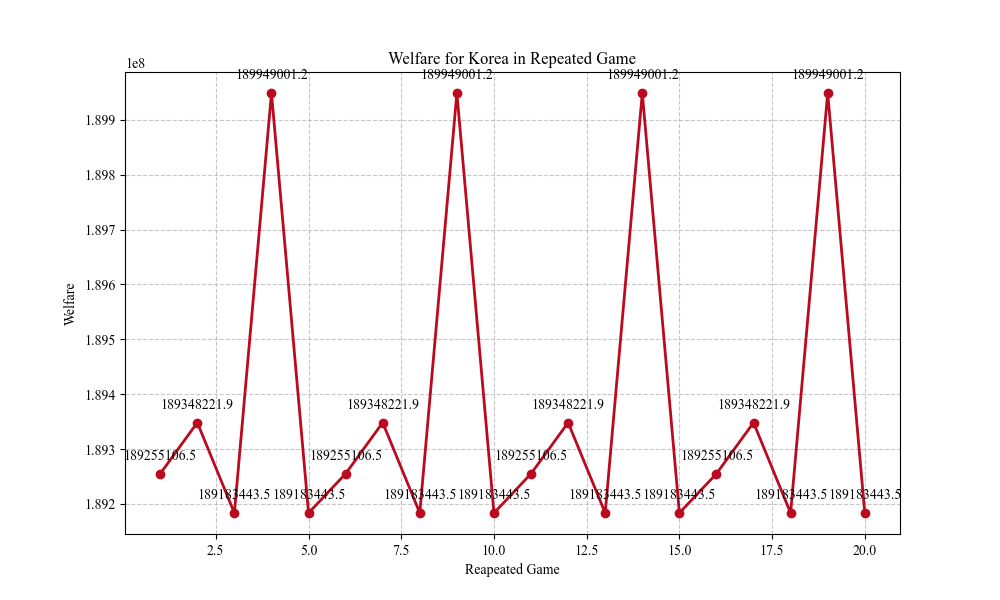
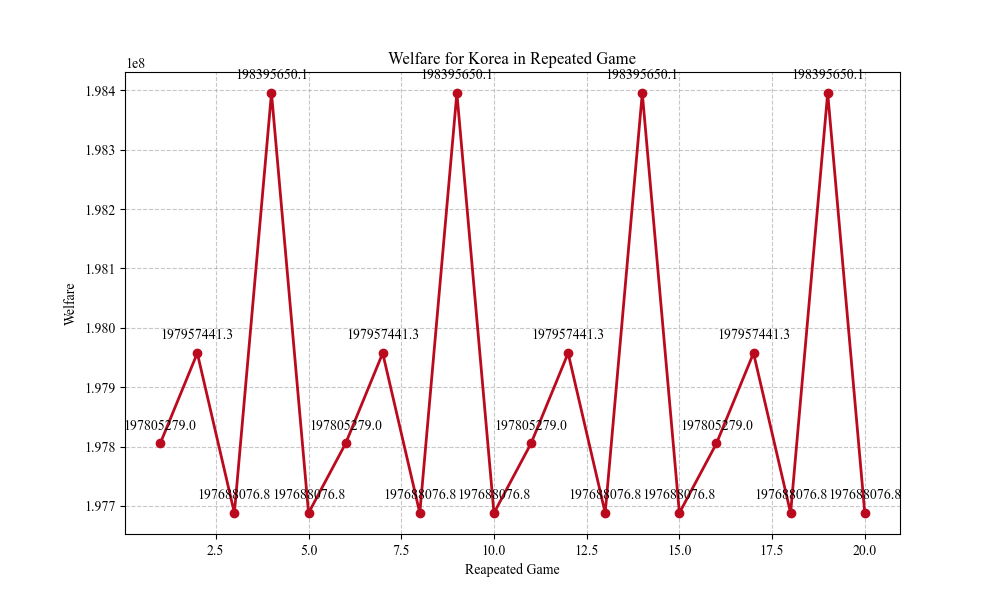
p_is typo corrected

diff --git a/welfare/welfare change effect.py b/welfare/welfare change effect.py
@@ -16,6 +16,11 @@ from scipy.optimize import minimize
 import pandas as pd
 import welfare
 import matplotlib.pyplot as plt
+from matplotlib import rcParams
+
+# Times New Roman 폰트를 사용하도록 설정
+rcParams['font.family'] = 'serif'
+rcParams['font.serif'] = ['Times New Roman'] + rcParams['font.serif']
 
 var.fill_gamma()
 var.fill_pi()
@@ -54,6 +59,7 @@ def gov_obj(tau_js, j):
         total += var.pol_econ[j][s] * calc_welfare(j, s)
     #print("total: ")
     #print(total)
+
     return -total  # We minimize, so we return the negative
 
 # Constraint 1 for country j and industry s
@@ -166,14 +172,18 @@ def constraints(tau_js, j):
 
 
 # Function to generate tariff matrix
-def generate_tariff_matrix():
+def generate_tariff_matrix(cname):
     # Create an array of tariffs (excluding the home country)
     # Tariffs for each industry (rows) and country (columns, excluding the home country)
     tariff_values = np.random.rand(var.num_industries, var.num_countries - 1) * 0.5 + 1.0
+    # tariff_values = var.tau[cname]
     return tariff_values
 
 def flatten(matrix):
     return [item for sublist in matrix for item in sublist]
+# def flatten(matrix):
+#     # Flatten the matrix and filter out non-numerical values
+#     return [item for sublist in matrix for item in sublist if isinstance(item, (int, float))]
 
 def flatten_dict(dict_matrix):
     """
@@ -186,7 +196,7 @@ def flatten_dict(dict_matrix):
     return flat_list
 
 # Generate an array of 5 tariff matrices
-tariff_matrices = [generate_tariff_matrix() for _ in range(5)]   
+tariff_matrices = [generate_tariff_matrix(name) for k, name in enumerate(var.countries)]   
 flat_matrices = [flatten(tariff_matrices[i]) for i in range(5)]
 
 def cal_x_j(country):
@@ -257,6 +267,7 @@ def welfare_change(T, X, delta_p, p, pi, t, delta_pi, delta_T):
 # Initialize a dictionary to store tariff values for each iteration
 tariff_history = {i: {j: {industry: [] for industry in var.industries} for j in var.countries if j != i} for i in var.countries}
 welfare_history = {i: {j: {industry: [] for industry in var.industries} for j in var.countries if j != i} for i in var.countries}
+
 # Ensure the directory exists
 output_dir = "nash_img"
 os.makedirs(output_dir, exist_ok=True)
@@ -281,31 +292,27 @@ def calculate_optimum_tariffs(exporter_name):
 
     # 각 국가에 대해 고유의 관세율 매트릭스를 사용하도록 수정
     optimal_taus = {j: {industry: 0 for industry in var.industries} for j in var.countries if j != exporter_name}
-    gov_obj_values = {j: {industry: 0 for industry in var.industries} for j in var.countries if j != exporter_name} # To store gov_obj values for each importer
+    gov_obj_values = {j: {industry: 0 for industry in var.industries} for j in var.countries if j != exporter_name} 
     
-    # exporter_name에 대한 인덱스를 가져옵니다.
-    exporter_idx = var.countries.index(exporter_name)
+    #exporter_idx = var.countries.index(exporter_name)
     idx = 0
     for j, importer in enumerate(var.countries):
         if importer == exporter_name:
             continue
         # flat_matrix는 실제로는 exporter_idx에 해당하는 데이터를 가져와야 합니다.
         flat_matrix = flatten_dict({j: {s: var.tau[exporter_name][j][s] for s in var.industries} for j in var.countries if j != exporter_name})
-        # 디버깅 출력
+        
         result = minimize(gov_obj, flat_matrix, args=(importer,), constraints=constraints(flat_matrix, importer))
         
         line_idx = 0
         for industry in var.industries:
             optimal_taus[importer][industry] = result.x[line_idx * (var.num_countries - 1) + idx]
             gov_obj_values[importer][industry] = -result.fun
+            line_idx += 1
 
         #gov_obj_values[importer] = -result.fun  # Store the minimized value of gov_obj
         idx += 1
     
-    # 업데이트 후 gamma를 다시 계산합니다.
-    #var.tau[exporter_name] = optimal_taus
-
-
     return optimal_taus, gov_obj_values
 
 
@@ -333,7 +340,10 @@ for iter in range(iteration):
                     welfare_history[i][j][industry].append(gov_obj_values[i][j][industry])
                     new_t = var.tau[i][j][industry] - 1
                     var.t[i][j][industry] = max(new_t, 1e-10)  # Ensure t is not below 1e-10
+    
     var.fill_gamma()
+    var.fill_alpha()
+
     # Recalculate gamma, var.pi, and alpha with new tau values
     update_hats(var.tau, var.t, var.pi)
     
@@ -375,7 +385,7 @@ for iter in range(iteration):
     # Recalculate gamma, var.pi, and alpha with new tau values
     update_hats(var.tau, var.t, var.pi)
 
-# print(welfare_history)
+print(welfare_history)
 # # Plot and save the tariff history for each combination of exporter, importer, and industry
 # iterations = list(range(1, iteration+2))
 iter_list = list(range(1,iteration+1))
@@ -386,8 +396,8 @@ for exporter in var.countries:
                 tariffs = tariff_history[exporter][importer][industry]
 
                 plt.figure(figsize=(10, 6))
-                plt.plot(iter_list, tariffs, marker='o', color='r')
-                #plt.ylim([1.0, 1.5])
+                plt.plot(iter_list, tariffs, marker='o', color='#bb0a1e', linewidth = 2)
+                plt.ylim([1.0, 1.5])
 
                 for i, txt in enumerate(tariffs):
                     if i == 0 or txt != tariffs[i-1]:  # 첫 포인트이거나, 앞의 값과 다를 때만 표시
@@ -403,30 +413,32 @@ for exporter in var.countries:
                 plt.savefig(file_name)
                 plt.close()
 
-
 for exporter in var.countries:
     for importer in var.countries:
         if exporter != importer:
-            for industry in var.industries:
-                ws = welfare_history[exporter][importer][industry]
+            welfares = welfare_history[exporter][importer][industry]
 
-                plt.figure(figsize=(10, 6))
-                plt.plot(iter_list, ws, marker='o', color='r')
-                #plt.ylim([1.0, 1.5])
+            plt.figure(figsize=(10, 6))
+            plt.plot(iter_list, welfares, marker='o', color='#bb0a1e', linewidth = 2)
+            #plt.ylim([1.0, 1.5])
+            plt.grid(True, linestyle='--', alpha=0.7)
 
-                for i, txt in enumerate(ws):
-                    if i == 0 or txt != ws[i-1]:  # 첫 포인트이거나, 앞의 값과 다를 때만 표시
-                        plt.annotate(f'{txt:.2f}', (iter_list[i], ws[i]), textcoords="offset points", xytext=(0,10), ha='center')
 
-                plt.title(f'Welfare for {importer} in Repeated Game')
-                plt.xlabel('Iteration')
-                plt.ylabel('W')
-                plt.grid(True)
-                
-                # Save the plot
-                file_name = f"{output_dir}/Welfare_{importer}.png"
-                plt.savefig(file_name)
-                plt.close()
+            for i, txt in enumerate(welfares):
+                if i == 0 or txt != welfares[i-1]:  # 첫 포인트이거나, 앞의 값과 다를 때만 표시
+                    plt.annotate(f'{txt:.1f}', (iter_list[i], welfares[i]), textcoords="offset points", xytext=(0,10), ha='center')
+
+            plt.title(f'Welfare for {importer} in Repeated Game')
+            plt.xlabel('Reapeated Game')
+            plt.ylabel('Welfare')
+            plt.grid(True)
+            
+            # Save the plot
+            file_name = f"{output_dir}/welfare_{importer}.png" #같다는 것을 확인했으면 제목 수정하기
+            plt.savefig(file_name)
+            plt.close()
+
+
 # # 임시 딕셔너리 생성
 # temp_pi = var.pi.copy()
 # temp_p = var.p_is.copy()

diff --git a/var.py b/var.py
@@ -29,8 +29,7 @@ x = { #우선 김은 임의로 100으로 채움
     'Germany':{'steel':44.50, 'semi':41.2, 'car': 614.313}
 }
 
-# used when calculating welfare
-p_is = {
+p_ijs = {
     'China': {
         'Germany': {'steel': 1.0582132952603989, 'semi': 0.8749017013649593, 'car': 22347.52148025721}, 
         'Japan': {'steel': 0.6545231939214761, 'semi': 1.3782939026477783, 'car': 28876.362273677052}, 
